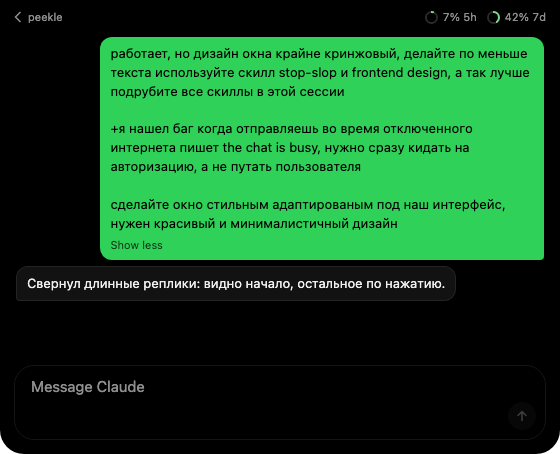
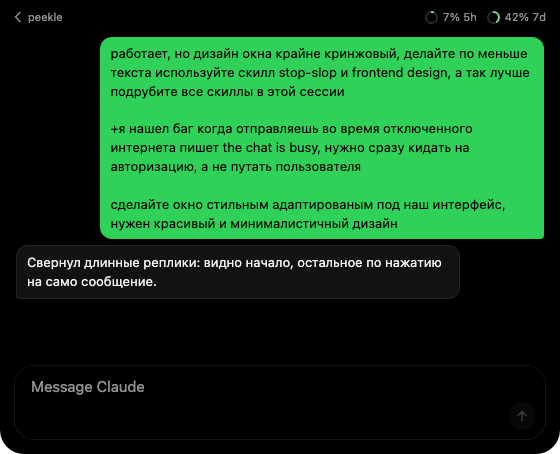
fix: open a folded message by pressing the message
Show more was a word in a window that exists to read something else, and
it repeated what the fade already says. The bubble is the control now:
a press opens it, a second press folds it back, and the pointer says it
can be pressed. A selection is not a press, so a message can be copied
without folding under the hand. tech.md 6.12.

Changed region(s): [[0.0304, 0.5242, 0.9714, 0.6476]]

diff --git a/tests/e2e/island.spec.ts b/tests/e2e/island.spec.ts
@@ -460,13 +460,47 @@ test.describe('the island route', () => {
     }));
     expect(folded).toEqual({ hidden: true, faded: true });
 
-    await page.getByRole('button', { name: 'Show more' }).click();
+    // The message is the control: nothing is written under it, and pressing
+    // the words themselves opens them.
+    await expect(page.getByText('Show more')).toHaveCount(0);
+    const bubble = page.locator(".line[data-kind='User'] .bubble");
+    await expect(bubble).toHaveAttribute('aria-expanded', 'false');
+
+    await bubble.click();
     await expect(body).not.toHaveClass(/folded/);
+    await expect(bubble).toHaveAttribute('aria-expanded', 'true');
     const whole = await body.evaluate((node) => node.scrollHeight <= node.clientHeight + 4);
     expect(whole).toBe(true);
 
     // And it folds back, so one long message cannot own the window.
-    await page.getByRole('button', { name: 'Show less' }).click();
+    await bubble.click();
+    await expect(body).toHaveClass(/folded/);
+  });
+
+  /// Selecting the words is not opening them. Messages are selectable on
+  /// purpose, and folding what somebody just highlighted under their hand is
+  /// the kind of thing that teaches people not to touch. tech.md 6.12 and 9.
+  test('taking a copy of a folded message does not fold it', async ({ page }) => {
+    const long = Array.from(
+      { length: 12 },
+      (_, line) => `строка ${line + 1} этой длинной реплики`,
+    ).join('\n');
+    await stub(page, [observed([say('u1', long, 1_789_000_000_000)])]);
+    await page.goto(ROUTE);
+
+    const body = page.locator(".line[data-kind='User'] .body");
+    await expect(body).toHaveClass(/folded/);
+
+    // A drag across the first line, which ends in a click on the message.
+    const first = (await body.boundingBox())!;
+    await page.mouse.move(first.x + 12, first.y + 8);
+    await page.mouse.down();
+    await page.mouse.move(first.x + 140, first.y + 8, { steps: 8 });
+    await page.mouse.up();
+
+    expect(
+      await page.evaluate(() => window.getSelection()?.toString().length ?? 0),
+    ).toBeGreaterThan(0);
     await expect(body).toHaveClass(/folded/);
   });
 
@@ -477,7 +511,10 @@ test.describe('the island route', () => {
     await page.goto(ROUTE);
 
     await expect(page.getByText('go on')).toBeVisible();
-    await expect(page.getByRole('button', { name: 'Show more' })).toHaveCount(0);
+    await expect(page.locator(".line[data-kind='User'] .bubble")).not.toHaveAttribute(
+      'aria-expanded',
+      /.*/,
+    );
   });
 
   /// An answer is never folded, however long: reading it is what the window
@@ -502,7 +539,10 @@ test.describe('the island route', () => {
     await page.goto(ROUTE);
 
     await expect(page.locator(".line[data-kind='Assistant'] .body")).not.toHaveClass(/folded/);
-    await expect(page.getByRole('button', { name: 'Show more' })).toHaveCount(0);
+    await expect(page.locator(".line[data-kind='Assistant'] .bubble")).not.toHaveAttribute(
+      'aria-expanded',
+      /.*/,
+    );
   });
 
   /// The CLI asks whether a folder is trusted on its own screen, before it

diff --git a/src/lib/ui/FeedRow.svelte b/src/lib/ui/FeedRow.svelte
@@ -51,6 +51,24 @@
   let body = $state<HTMLElement | null>(null);
   let folds = $state(false);
   let unfolded = $state(false);
+
+  /** The message itself is the control: pressing it opens and closes it.
+   * Nothing is written under it -- a word saying `Show more` is one more thing
+   * to read in a window where the whole point is reading something else, and
+   * the fade already says there is more. tech.md 6.12. */
+  function toggleFold() {
+    // A press that ends a drag across the text is somebody copying, not
+    // somebody opening. Messages are selectable on purpose (9), and folding
+    // the thing they just selected under them would be maddening.
+    if (!window.getSelection()?.isCollapsed) return;
+    unfolded = !unfolded;
+  }
+
+  function foldKey(event: KeyboardEvent) {
+    if (event.key !== 'Enter' && event.key !== ' ') return;
+    event.preventDefault();
+    unfolded = !unfolded;
+  }
   $effect(() => {
     // Read once the words are on screen, and re-read when they change: a fold
     // is a fact about what was drawn, not a guess from the length of a string.
@@ -73,7 +91,20 @@
   <div class="notice"><span>{entry.text}</span></div>
 {:else if spoken}
   <div class="line" data-kind={entry.kind} data-state={entry.state}>
-    <div class="bubble">
+    <!-- It is a button exactly when it folds, and the checker cannot see a
+         role decided at runtime: a message that fits is a message, and one
+         that does not is the control that opens itself. tech.md 6.12. -->
+    <!-- svelte-ignore a11y_no_noninteractive_tabindex -->
+    <div
+      class="bubble"
+      class:pressable={folds}
+      role={folds ? 'button' : undefined}
+      tabindex={folds ? 0 : undefined}
+      aria-expanded={folds ? unfolded : undefined}
+      aria-label={folds ? (unfolded ? 'Fold this message' : 'Open this message') : undefined}
+      onclick={folds ? toggleFold : undefined}
+      onkeydown={folds ? foldKey : undefined}
+    >
       <div class="body" class:folded={folds && !unfolded} style:--fold={FOLD_AT} bind:this={body}>
         {#if shown.length > 0}
           <div class="shots">
@@ -105,13 +136,6 @@
           {/if}
         {/each}
       </div>
-      <!-- The whole of it is one press away, and the press says which way it
-           goes rather than only that it can be pressed. tech.md 6.12. -->
-      {#if folds}
-        <button class="unfold" type="button" onclick={() => (unfolded = !unfolded)}>
-          {unfolded ? 'Show less' : 'Show more'}
-        </button>
-      {/if}
     </div>
   </div>
 {:else}
@@ -170,21 +194,10 @@
     mask-image: linear-gradient(to bottom, #000 calc(100% - 42px), transparent);
   }
 
-  .unfold {
-    display: block;
-    margin-top: 5px;
-    padding: 0;
-    border: none;
-    background: transparent;
-    color: inherit;
-    opacity: 0.7;
-    font: inherit;
-    font-size: 11px;
+  /* The message is the control, so it says so the only way a message can
+     without growing a word: the pointer. tech.md 6.12. */
+  .bubble.pressable {
     cursor: pointer;
-  }
-
-  .unfold:hover {
-    opacity: 1;
   }
 
   .bubble {

diff --git a/features/README.md b/features/README.md
@@ -49,7 +49,7 @@ Screenshots and clips live in [`shots/`](shots).
 | v57     | [Work line](#v57--work-line)                                                                                             | 6.12, 9              |
 | v56     | [Stop in the field button](#v56--stop-in-the-field-button)                                                               | 6.5, 6.15, 9         |
 
-## v80.14 — A long message of your own folds
+## v80.15 — A long message of your own folds
 
 2026-09-11
 
@@ -57,10 +57,13 @@ Half a screen of your own words pushed the answer you were waiting for off the
 island, and the bubble simply ran out at the bottom edge of the window, which
 reads as a message that lost its end.
 
-A message of your own taller than six lines now shows six, fades out instead of
-stopping, and carries **Show more**. The whole of it is one press away, and
-**Show less** puts it back. An answer never folds: reading it is what the
-window is for.
+A message of your own taller than six lines now shows six and fades out instead
+of stopping. Pressing the message opens it; pressing it again puts it back.
+There is no word under it saying so — the fade already says there is more, and
+a label in a window opened to read something else gets read before the thing.
+Selecting the text is not pressing it, so a message can be copied without
+folding under the hand. An answer never folds: reading it is what the window is
+for.
 
 Whether it folds is decided by what was drawn, not by how many characters there
 are — a message that fits offers nothing, at any width or font size.
